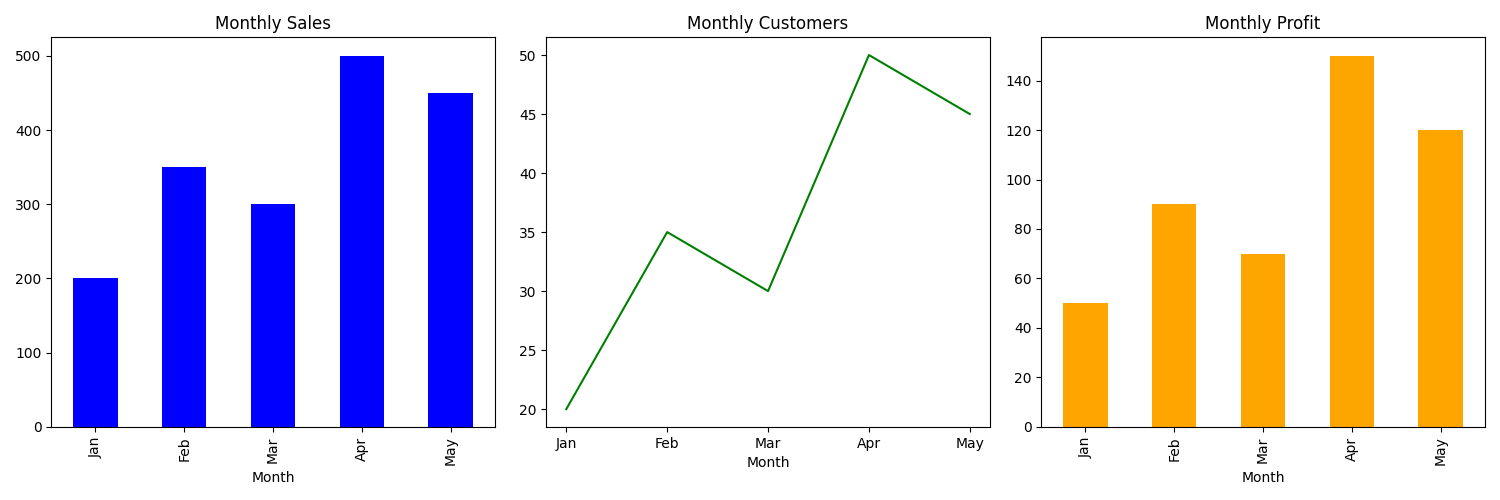
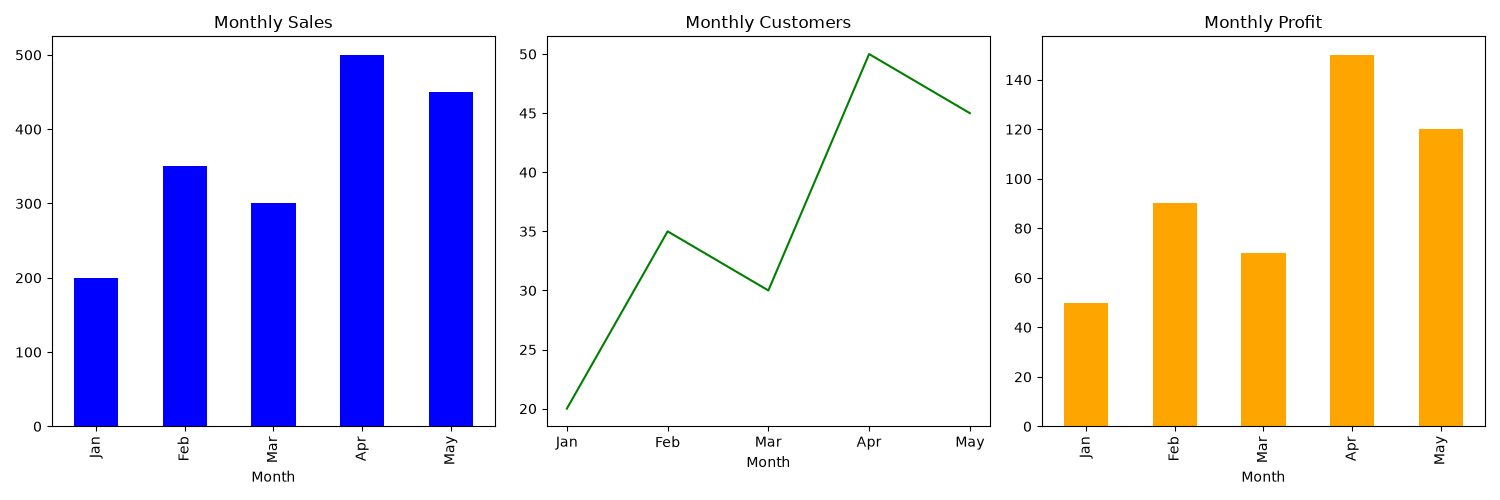
Add Lesson 07: SQL + Python - Query database and visualize results

diff --git a/lesson-07-sql-analysis/lesson7.py b/lesson-07-sql-analysis/lesson7.py
@@ -1,0 +1,46 @@
+import pandas as pd
+import sqlite3
+import matplotlib.pyplot as plt
+
+# Create database and connect
+conn = sqlite3.connect("sales.db")
+
+# Create table and insert data
+conn.execute("""
+CREATE TABLE IF NOT EXISTS sales (
+    name TEXT,
+    product TEXT,
+    amount REAL,
+    month TEXT
+)
+""")
+
+conn.execute("DELETE FROM sales")
+
+data = [
+    ("Alice", "Food", 200, "Jan"),
+    ("Bob", "Electronics", 350, "Jan"),
+    ("Charlie", "Food", 150, "Feb"),
+    ("Alice", "Electronics", 400, "Feb"),
+    ("Bob", "Food", 300, "Mar"),
+    ("Charlie", "Electronics", 250, "Mar"),
+]
+
+conn.executemany("INSERT INTO sales VALUES (?,?,?,?)", data)
+conn.commit()
+
+# Query with SQL
+df = pd.read_sql_query("SELECT product, SUM(amount) as Total FROM sales GROUP BY product", conn)
+
+print("=== Sales by Product ===")
+print(df)
+
+# Chart
+df.plot(kind="bar", x="product", y="Total", color="purple", legend=False)
+plt.title("Sales by Product")
+plt.tight_layout()
+plt.savefig("sql_chart.png")
+plt.show()
+
+conn.close()
+print("\nDone!")